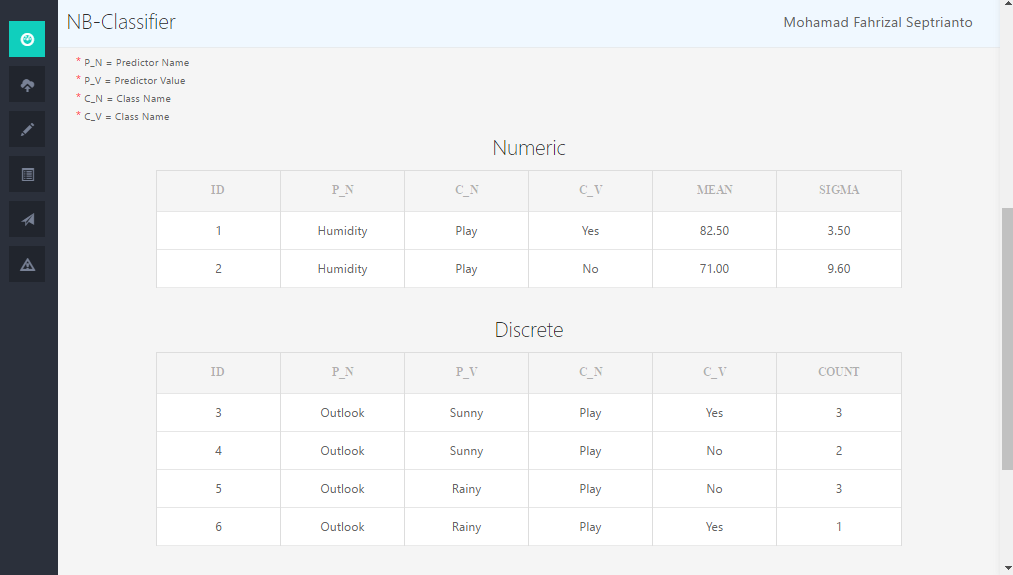
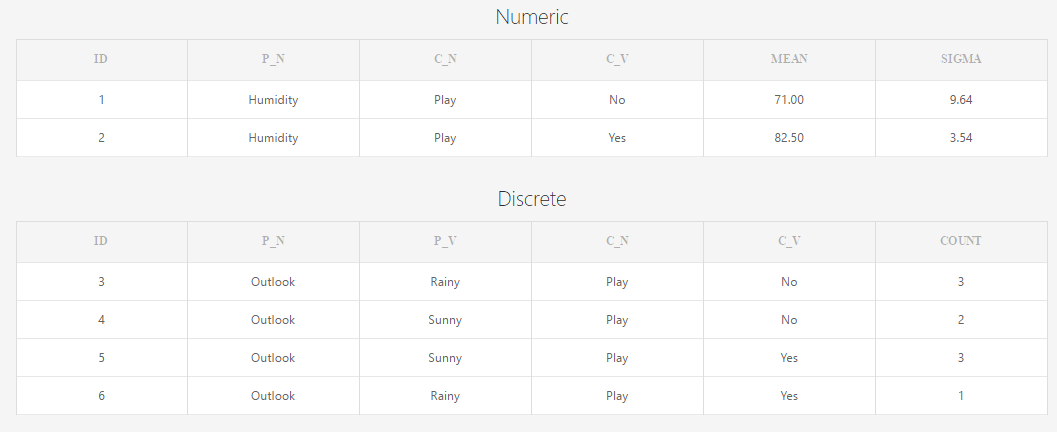
fixing all manual and program calculation (just discovered) <- fatal failure ; code fixed (sigma problem occured); working on experiments using medium with 3 dataset on pengujian model ; working on experiments using big data on pengujian performansi

diff --git a/Bab/bab2.tex b/Bab/bab2.tex
@@ -357,42 +357,81 @@ Reducer berfungsi untuk mengurangi data yang tidak diperlukan (misal : data yang
 \end{enumerate}
 
 		
---------------------------------------------------------------------------------------------------
+\section{Teorema Bayes \cite{garg2013design}}
+	
+	Teorema Bayes adalah salah satu teorema dalam statistika untuk menghitung peluang suatu kejadian dari beberapa kejadian lainnya. Teorema bayes merupakan salah satu istilah dalam teori probabilitas yang berisi mengenai perhitungan probabilitas yang memiliki syarat tertentu (\textit{certain conditional probability}). Probabilitas bersyarat (\textit{conditional probabilities}) merupakan suatu probabilitas terhadap 1 kejadian tertentu yang dipengaruhi oleh probabilitas kejadian lain. Istilah yang umum digunakan pada teorema bayes adalah probabilitas \textit{prior} dan probabilitasi \textit{posterior}. Probabilitas prior dari suatu kejadian(atau hipotesa) merupakan probablitas orisinil yang didapatkan sebelum dipengaruhi oleh probabilitas lain. Sedangkan probabilitas posterior merupakan probabilitas suatu kejadian yang sudah dipengaruhi oleh probabilitas dari kejadian lain.
+	
+	Teorema bayes dapat ditulis sebagai:
+	
+\begin{equation} \label{eq:1}
+P(A|B) = \dfrac{P(B|A)P(A)}{P(B)}
+\end{equation}
+Dimana,
+P(A) adalah probabilitas prior dari A
+P(B) adalah probabilitas prior dari B
+P(A|B) adalah probabilitas posterior dari A jika diberikan B
+P(B|A) adalah probabilitas posterior dari B jika diberikan A
 
 \section{\textit{Naive Bayes Classifier}}
 	
-	 Naive Bayes merupakan salah satu metode mesin learning yang digunakan pada teknik data mining menggunakan metode perhitungan peluang. Konsep dasar yang digunakan oleh Naive bayes adalah Teorema Bayes, yaitu teorema dalam statistika untuk menghitung peluang suatu kejadian dari beberapa kejadian lainnya. Bayes Optimal Classifier menghitung peluang dari satu kelas dari masing-masing kelompok atribut yang ada dan menentukan kelas mana yang paling optimal. Algoritma Naive Bayes melakukan klasifikasi berdasarkan pada teorema Bayes' seperti berikut : 
+	 Naive Bayes merupakan salah satu metode mesin learning yang digunakan pada teknik data mining menggunakan metode perhitungan peluang. Konsep dasar yang digunakan oleh Naive bayes adalah Teorema Bayes dengan asumsi independensi\footnote{Independensi adalah keadaan bebas dari pengaruh, tidak dikendalikan oleh pihak lain.} yang kuat. \textit{Naive Bayes Classifier} pertama kali dijelaskan pada \cite{ro1973pattern} pada tahun 1973 dan setelah itu pada \cite{langley1992analysis} pada tahun 1992. Struktur dari \textit{naive bayes classifier} pertama kali digambarkan seperti pada gambar~\ref{fig:Struktur Naive Bayesian Network} yang menunjukkan asumsi independensi yang kuat antara setiap atribut(\textit{features}) pada suatu contoh data.
+	 
+\begin{figure}[H]
+\centering
+\includegraphics[scale=0.6]{naive_bayes_classifier_structure}
+\caption[Struktur \textit{Naive Bayesian Network}]{Struktur \textit{Naive Bayesian Network}}
+\label{fig:Struktur Naive Bayesian Network}
+\end{figure}
 
+\subsection{Algoritma}
+
+	 \textit{Bayes Optimal Classifier} menghitung peluang dari satu kelas dari masing-masing kelompok atribut yang ada dan menentukan kelas mana yang paling optimal. Teori bayes memiliki asumsi bahwa probabilitas P(A|B) atau peluang kejadian A bila B terjadi tidak saling berhubungan dengan setiap kemungkinan dari nilai B yang diberikan (\textit{naive}). Hal ini disebut sebagai \textit{class conditional independence} . Sehingga memudahkan perhitungan yang dilakukan pada saat klasifikasi. Kemungkinan terjadinya kejadian A bila diberikan kejadian B dapat dihitung dengan menggunakan rumus diatas, yaitu mengalikan peluang dari kejadian B jika diberikan kejadian A dikalikan dengan peluang seluruh kejadian A dan dibagi dengan peluang dari seluruh kejadian B.
+
+	Seperti yang ditulis pada \cite{rish2001empirical}, \textit{naive bayes classifier} dapat didefinisikan sebagai berikut. Variabel - variabel dilambangkan dengan menggunakan huruf kapital seperti $X_i$, dan nilai-nya akan dilambangkan dengan huruf kecil seperti $x_i$, dan kumpulan dari variabel akan dilambangkan dengan huruf tebal seperti \textbf{$X$}.
+
+Berdasarkan persamaan pada~\ref{eq:1}, untuk dataset $X$ dan sebuah kelas $C$, didapatkan persamaan seperti $P(C=c|X=x) = \dfrac{P(X=x|C=c)P(C=c)}{P(X=x)}$. Karena, $P(X=x)$ adalah sama untuk setiap kelas, maka bisa diabaikan. Oleh karena itu, maka fungsi dikriminan dapat ditulis menjadi $f^x = P(X=x|C=c)$, dimana $P(X=x|C=c)$ disebut sebagai CPD (\textit{class-conditional probability distribution}).
+
+Untuk menghitung nilai $P(C=c|X)$ (\textit{X merupakan dataset yang digunakan sebagai predictor}) dengan mengasumsikan bahwa masing - masing atribut tidak saling bergantung dengan atribut lainnya \textit{class conditional independence}, maka didapat : 
 \begin{equation}
-P(A|B) = \dfrac{P(B|A)P(A)}{P(B)}
-\end{equation}
-
-	Teori bayes memiliki asumsi bahwa probabilitas P(A|B) atau peluang kejadian A bila B terjadi tidak saling berhubungan dengan setiap kemungkinan dari nilai B yang diberikan (\textit{naive}). Hal ini disebut sebagai \textit{class conditional independence} . Sehingga memudahkan perhitungan yang dilakukan pada saat klasifikasi. Kemungkinan terjadinya kejadian A bila diberikan kejadian B dapat dihitung dengan menggunakan rumus diatas, yaitu mengalikan peluang dari kejadian B jika diberikan kejadian A dikalikan dengan peluang seluruh kejadian A dan dibagi dengan peluang dari seluruh kejadian B.\\
-
-Berdasarkan teori Bayes, untuk dataset $d$ dan sebuah kelas $c$, didapatkan : \\
-
-\begin{equation}
-P(c|d) = \dfrac{P(d|c)P(c)}{P(d)}
-\end{equation}
-
-\begin{itemize}
-	\item $P(c|d)$ merupakan peluang dari kemunculan suatu kelas/kelompok tertentu jika diberikan suatu dataset $d$
-	\item $P(d|c)$ merupakan peluang suatu dataset tertentu jika diberikan suatu kelas $c$
-	\item $P(c)$ merupakan probabilitas dari kelas
-	\item $P(d)$ merupakan probabilitas dari dokumen/dataset
-\end{itemize}
-
-Untuk menghitung nilai $P(c|X)$ (\textit{X merupakan dataset yang digunakan sebagai predictor}) dengan mengasumsikan bahwa masing - masing atribut tidak saling bergantung dengan atribut lainnya \textit{class conditional independence}, maka didapat : 
-\begin{equation}
-	P(c|X) = P(x_1|c) P(x_2|c) ... P(x_n|c) P(c)
+	P(C=c|X) = P(x_1|c) P(x_2|c) ... P(x_n|c) P(C=c)
 \end{equation}
 
 Sebuah dataset dapat ditentukan klasifikasi-nya dengan algoritma naive bayes setelah dihitung semua kemungkinan dari nilai $P(c_k|X)$ dan untuk nilai keluaran yang paling besar akan dipilih menjadi kelas yang paling optimal dari dataset tersebut.
 
 \textit{MAP Maximum A Posteriori}
 		\begin{equation}
-			C_{MAP} = \underset{c \in C}{ argmax } P(c|d) = \underset{c \in C}{ argmax } \dfrac{P(d|c) P(c)}{P(d)} = \underset{c \in C}{ argmax } P(d|c) P(c)
+			C_{MAP} = \underset{c \in C}{ argmax } P(c|X) = \underset{c \in C}{ argmax } P(X|c) P(c)
 		\end{equation} \\
+
+%\begin{itemize}
+%	\item $P(c|d)$ merupakan peluang dari kemunculan suatu kelas/kelompok tertentu jika diberikan suatu dataset $d$
+%	\item $P(d|c)$ merupakan peluang suatu dataset tertentu jika diberikan suatu kelas $c$
+%	\item $P(c)$ merupakan probabilitas dari kelas
+%	\item $P(d)$ merupakan probabilitas dari dokumen/dataset
+%\end{itemize}
+
+\subsection{\textit{Zero-Frequency Problem} \cite{PeughMissing:2004}}
+\label{subsec:Zero-Frequency Problem}
+
+Ketika ada suatu nilai dari atribut prediktor yang tidak memiliki frekuensi kemunculan sama sekali terhadap setiap kelas (frekuensi=0), maka nilai 1 akan ditambahkan kepada setiap kombinasi dari frekuensi dari atribut terhadap tiap kelas. Pendekatan yang digunakan untuk dalam mengatasi hal ini adalah dengan menggunakan metode \textit{Laplacian Correction}. Pada metode tersebut, dikatakan bahwa kita perlu menambah nilai 1 kepada seluruh nilai pada table frekuensi untuk mengatasi masalah \textit{zero-frequency problems}. Asumsikan training database (D) itu sangat besar, dimana menambahkan frekuensi sebanyak 1 ke setiap jumlah perhitungan yang kita perlukan tidak akan memberikan pengaruh yang besar terhadap nilai kemungkinan akhir (Laplacian correction / Laplace estimator).
+
+\subsection{Prediktor Numerik \cite{garg2013design}}
+
+Ketika suatu atribut prediktor memiliki data bersifat kontinu atau numerik, terdapat 2 cara untuk mengatasi hal tersebut, diantaranya adalah:
+\begin{enumerate}
+	\item Melakukan transformasi atribut numerik dengan cara memecah - mecah nilai distribusi dari seluruh nilai dalam atribut tersebut ke dalam kategori - kategori terpisah. Cara tersebut disebut sebagai \textit{binning}. Cara ini perlu dilakukan sebelum membuat tabel frekuensi.
+	
+	\item Menggunakan disribusi dari nilai - nilai dalam atribut numerik tersebut untuk menebak frekuensi-nya. Salah satu cara yang umum digunakan adalah dengan menggunakan fungsi \textit{normal distribution} untuk nilai numerik, yang didefinisikan dengan 2 parameter: \textit{mean} dan \textit{standard deviation}.
+	\begin{equation}
+	P(X=x|C=c) = \dfrac{1}{\sqrt{2\pi\sigma}}\epsilon^{-\dfrac{x-\mu}{2\sigma^2}}
+	\end{equation}
+	Dimana,\\
+	\textit{Mean} $= \mu = \dfrac{1}{n}\sum^n_{j=1}x_j$\\
+	\textit{Standard Deviation} $= \sigma = [\dfrac{1}{n-1}\sum^n_{j=1}(x_j-n)^2]^{0.5}$\\
+	\textit{n} $=$ jumlah kemunculan atribut terhadap kelas
+	
+	
+\end{enumerate}	
 	
 \section{Framework Yang Digunakan Dalam Membangun Perangkat Lunak}
 
@@ -407,7 +446,7 @@ Sebuah dataset dapat ditentukan klasifikasi-nya dengan algoritma naive bayes set
 \end{enumerate}
 Spring menyediakan model pemrograman terbuka yang komprehensif, kohesif, mudah dipahami serta memiliki \textit{library} yang lengkap untuk melakukan integrasi ke \textit{service - service} lain seperti \textit{Hadoop-client Library}, \textit{Mysql-connector Library}, dsb. Inti dari framework ini lebih kepada untuk membangun aplikasi web, mengatur manajemen transaksi, akses data, messaging, pengujian dsb. Kita bisa mengembangkan aplikasi web berbasis MVC dan \textit{Web-Service} framework \textit{REST-ful}\footnote{REST merupakan \textit{standard} dalam arsitektur web yang menggunakan Protocol HTTP untuk pertukaran data.  Konsep REST menekankan bahwa komunikasi yang terjadi antara \textit{client} dan \textit{server} hanya sebatas melakukan \textit{request} dan memberikan \textit{response} saja.} (\textit{Representational State Transfer}).
 
-\textit{Design pattern} yang digunakan pada perangkat lunak yang dibuat akan menggunakan konsep MVC (\textit{model view controler}). Spring memiliki fitur khusus untuk membuat web berbasiskan \textit{design pattern} MVC. Berikut merupakan ilustrasi\footnote{Gambar diambil dari \url{https://docs.spring.io/spring/docs/current/spring-framework-reference/html/images/mvc.png.pagespeed.ce.tmIzOTr1gg.png}} dari \textit{request workflow} pada \textit{Spring Web} MVC.
+\textit{Design pattern} yang digunakan pada perangkat lunak yang dibuat akan menggunakan konsep MVC (\textit{model view controler}). Spring memiliki fitur khusus untuk membuat web berbasiskan \textit{design pattern} MVC. Berikut merupakan ilustrasi(diambil dari \url{https://docs.spring.io/spring/docs/current/spring-framework-reference/html/images/mvc.png.pagespeed.ce.tmIzOTr1gg.png}) dari \textit{request workflow} pada \textit{Spring Web} MVC.
 \begin{figure}[h]
 	\centering
 	\includegraphics[scale=0.5]{GambarIO/mvc_springdocs}
@@ -429,7 +468,7 @@ Spring menyediakan model pemrograman terbuka yang komprehensif, kohesif, mudah d
 \subsection{\textit{Maven} \cite{MengenalMaven2015EGunawan}}
 Apache Maven adalah software build tools / project management yang dibangun dibawah \textit{Apache Software Foundation} yang digunakan untuk melakukan proses building project. Jadi, ketika project akan dibuild menggunakan Maven, project tersebut bisa kita buka menggunakan IDE lain.
 
-Selain itu, keuntungan menggunakan maven adalah mendukung dependency management. Artinya, ketika kita membutuhkan suatu library ke dalam project, kita tidak perlu mendownloadnya manual, kemudian dimasukkan ke dalam project. Kita tinggal memasukkan  ependency-nya, dan maven akan menanganinya.  Dengan begini, ukuran project menjadi lebih kecil karena tidak memasukkan library ke dalam project.
+Selain itu, keuntungan menggunakan maven adalah mendukung dependency management. Artinya, ketika kita membutuhkan suatu library ke dalam project, kita tidak perlu men-\textit{download}-nya secara manual yang kemudian dimasukkan ke dalam project. Tetapi, tinggal memasukkan \textit{dependency} untuk library yang dibutuhkan tersebut dan maven akan menangani proses \textit{download} library dan kompilasi project menggunakan \textit{library} tersebut.  Dengan begitu, ukuran project menjadi lebih kecil karena tidak memasukkan library ke dalam project. \textit{Maven} menyimpan seluruh library yang pernah kita gunakan pada direktori \texttt{.m2} milik user.
 
 Untuk mendownload Apache Maven bisa langsung ke websitenya di \url{http://maven.apache.org/}. Versi terbaru dari Apache Maven adalah 3.5.0.
 

diff --git a/Bab/bab5.tex b/Bab/bab5.tex
@@ -188,8 +188,8 @@ Misal kita memiliki dataset yang menunjukan seseorang akan bermain tenis atau ti
 			\end{tabular}
 		\end{table}
 		
-		Pada table frekuensi untuk atribut Outlook, dapat dilihat bahwa $P(X=Rainy|C=Yes) = 0$. Naive bayes classifier tidak dapat mengatasi frekuensi yang nilainya 0. Karena dapat menyebabkan seluruh perhitungan menjadi 0(karena berapapun bilangannya, jika dikalikan dengan 0 akan selalu menghasilkan nilai 0), sehingga menjadi tidak relevan. Pendekatan yang perlu digunakan untuk mengatasi hal tersebut adalah dengan menggunakan metode Laplacian Correction (->Pustaka.Bib). Pada metode tersebut, dikatakan bahwa kita perlu menambah nilai 1 kepada seluruh nilai pada table frekuensi untuk mengatasi masalah \textit{zero-frequency problems}. Asumsikan training database (D) itu sangat besar, dimana menambahkan frekuensi sebanyak 1 ke setiap jumlah perhitungan yang kita perlukan tidak akan memberikan pengaruh yang besar terhadap nilai kemungkinan akhir (Laplacian correction / Laplace estimator) \cite{PeughMissing:2004}. Perubahan nilai atribut dapat dilihat pada table 3. \\
-		
+		Pada table frekuensi untuk atribut Outlook, dapat dilihat bahwa $P(X=Rainy|C=Yes) = 0$. Naive bayes classifier tidak dapat mengatasi frekuensi yang nilainya 0. Karena dapat menyebabkan seluruh perhitungan menjadi 0(karena berapapun bilangannya, jika dikalikan dengan 0 akan selalu menghasilkan nilai 0), sehingga menjadi tidak relevan. Berdasarkan pada~\ref{subsec:Zero-Frequency Problem}, perubahan nilai atribut dapat dilihat pada table 3. \\ 
+
 		\begin{table}[ht]
 			\centering
 			\caption{Table frekuensi atribut Outlook}
@@ -278,8 +278,6 @@ Misal kita memiliki dataset yang menunjukan seseorang akan bermain tenis atau ti
 			f(x|play=no) = \dfrac{1}{\sqrt{2\pi(9.6)}}e^{-\dfrac{(x-71)^2}{2(9.6)^2}} 
 		\end{equation}
 		
-		\textit{Cara ini dapat diberlakukan juga pada atribut yang bertipe kontinu.}
-		
 		Setelah semua model dari naive bayes classifier telah jadi, maka klasifikasi sudah dapat dilakukan dengan model diatas.
 
 \subsubsection{Klasifikasi Menggunakan Model NBC}
@@ -306,7 +304,7 @@ $( C_{MAP} = \underset{c \in C}{ argmax } P(c|d) = \underset{c \in C}{ argmax } 
 		\begin{equation}
 			P(Humidity=50|Yes) 
 			= \dfrac{1}{\sqrt{2\pi(3.5)}}e^{-\dfrac{(\textbf{50}-82.5)^2}{2(3.5)^2}}
-			= 4.031
+			= 4.031*10^{-20}
 		\end{equation}
 	
 	\paragraph{Untuk dataset X dengan $P=No$:}
@@ -326,22 +324,22 @@ $( C_{MAP} = \underset{c \in C}{ argmax } P(c|d) = \underset{c \in C}{ argmax } 
 	Untuk kelas $Play=Yes$ \\
 	$P(Play=Yes|X) \\
 	= P(Outlook=Sunny|Play=Yes)*P(Humidity=50|Play=Yes)*P(Yes) \\
-	= 0.75 * 4.031 * 4/9 \\
-	= 1.343$ \\ \\
+	= 0.75 * 4.031*10^{-20} * 4/9 \\
+	= 1.343*10^{-20}$ \\ \\
 	Untuk kelas $Play=No$ \\
 	$P(Play=No|X) \\
 	= P(Outlook=Sunny|Play=No)*P(Humidity=50|Play=No)*P(No) \\
 	= 0.4 * 0.011 * 5/9 \\
 	= 0.002$ \\ \\
 	Setelah itu, lakukan normalisasi terhadap nilai - nilai berikut: \\
-	$P(Play=Yes|X) = 1.343 / (1.343+0.002) \\
-	= 0.998 (99.8\%)$ \\
-	$P(Play=No|X) = 0.002 / (1.343+0.002) \\
-	= 0.002 (0.2\%)$ \\
+	$P(Play=Yes|X) = 1.343*10^{-20} / (1.343*10^{-20} + 0.002) \\
+	= 6.715*10^{-18}$ \\
+	$P(Play=No|X) = 0.002 / ((1.343*10^{-20}) + 0.002) \\
+	= 1 (100\%)$ \\
 	
-	Karena, $P(Play=Yes|X) > P(Play=No|X)$, maka hasil klasifikasi untuk \textit{dataset X} ialah kelas $Play=Yes$.
+	Karena, $P(Play=Yes|X) < P(Play=No|X)$, maka hasil klasifikasi untuk \textit{dataset X} ialah kelas $Play=No$.
 	
-	\paragraph{Untuk dataset Y dengan $P=Yes$:}
+	\paragraph{Untuk dataset Y dengan $P=Yes$}
 	Menghitung peluang untuk atribut $Outlook=Sunny$ dengan $P=Yes$
 	\begin{equation}
 			P(Outlook=Sunny|Yes) = 3/4 
@@ -433,8 +431,8 @@ Hasil pembuatan model klasifikasi NBC yang dilakukan oleh program dapat dilihat 
 \begin{lstlisting}
 Play,No,3.0|CLASS	
 Play,Yes,2.0|CLASS	
-Humidity,Play,No	;71.0|7.874007874011811|NUMERIC
-Humidity,Play,Yes	;82.5|2.5|NUMERIC
+Humidity,Play,No	;71.0|9.643650760992955|NUMERIC
+Humidity,Play,Yes	;82.5|3.5355339059327378|NUMERIC
 Outlook,Rainy,Play,No,2.0|DISCRETE	
 Outlook,Sunny,Play,No,1.0|DISCRETE	
 Outlook,Sunny,Play,Yes,2.0|DISCRETE
@@ -461,11 +459,13 @@ Pada bagian ini, akan dilakukan 2 kali pengujian klasifikasi, yaitu (1) dengan m
 	|     | no  | yes |
 	-------------------
 	| no  | 0   | 0   |
-	| yes | 0   | 2   |
+	| yes | 1   | 1   |
 	-------------------
 	####
 	\end{lstlisting}
-	Dapat dilihat bahwa, hasil klasifikasi menggunakan program berbasis \textit{MapReduce} pada modul \textit{testing} memiliki hasil yang sama dengan hasil klasifikasi kelas \texttt{Play=Yes}.
+	Hasil pada program berbasis \textit{MapReduce} dapat dilihat pada hasil matrix \textit{confusion} diatas. Pada matrix \textit{confusion} 2 dimensi berikut, dimensi pertama (mendatar) akan menyatakan nilai sebenarnya(\textit{actual}) dari data asli-nya (di-input oleh user), dan dimensi kedua (menurun) akan menyatakan nilai hasil dari prediksi menggunakan model NBC yang sudah dibuat.
+	
+	Pada matrix tersebut terlihat bahwa terdapat 1 record yang menghasilkan kelas \texttt{Play=Yes} dan 1 record yang menghasilkan kelas \texttt{Play=No}.
 	
 	\item{Klasifikasi dengan perangkat lunak berbasis \textit{non-MapReduce}}\\
 	Model pada NBC akan di-\textit{import} ke dalam program yang dibuat dengan melakukan pembaharuan model pada antarmuka \textit{Renew Model Manager}. Program akan melakukan pembacaan terhadap model NBC dan mendeteksi dari model NBC yang diperoleh sebelumnya terdapat \textit{zero-frequency problem} dan mengatasinya dengan menggunakan metode \textit{laplacian correction}, dan hasilnya adalah seperti berikut:
@@ -477,7 +477,7 @@ Pada bagian ini, akan dilakukan 2 kali pengujian klasifikasi, yaitu (1) dengan m
 	\end{figure}
 Dapat dilihat pada Gambar~\ref{fig:Import Model NBC - Pengujian} bahwa pada model yang dihasilkan sebelumnya kita tidak memiliki frekuensi kemunculan untuk prediktor \texttt{outlook=rainy} dengan kelas \texttt{play=yes}, tetapi setelah dilakukan import model ke dalam program, program telah menangani \textit{zero-frequency problem} dengan baik, dengan menambahkan frekuensi sebanyak 1 untuk tiap model.\\
 
-Untuk data input klasifikasi \texttt{Humidity=50} dan \texttt{Outlook=Sunny}, diperoleh hasil klasifikasi yang sama dengan perhitungan manual, yaitu kelas \texttt{Play=Yes}, dengan presentase dominasi yang berbeda sebesar \texttt{100\%}.
+Untuk data input klasifikasi \texttt{Humidity=50} dan \texttt{Outlook=Sunny}, diperoleh hasil klasifikasi yang sama dengan perhitungan manual, yaitu kelas \texttt{Play=No}, dengan presentase dominasi yang juga sama, yaitu sebesar \texttt{100\%}.
 \begin{figure}[H]
 	\centering
 	\includegraphics[scale=0.5]{Pengujian/result_classify_1}
@@ -485,7 +485,7 @@ Untuk data input klasifikasi \texttt{Humidity=50} dan \texttt{Outlook=Sunny}, di
 	\label{fig:Hasil Klasifikasi Dataset-1}
 \end{figure}
 
-Untuk data input klasifikasi \texttt{Humidity=90} dan \texttt{Outlook=Sunny}, diperoleh hasil klasifikasi yang sama dengan perhitungan manual, yaitu kelas \texttt{Play=Yes}, dengan presentase dominasi yang berbeda sebesar \texttt{63.94\%}.
+Untuk data input klasifikasi \texttt{Humidity=90} dan \texttt{Outlook=Sunny}, diperoleh hasil klasifikasi yang sama dengan perhitungan manual, yaitu kelas \texttt{Play=Yes}, dengan presentase dominasi yang berbeda sebesar \texttt{64.67\%}.
 \begin{figure}[H]
 	\centering
 	\includegraphics[scale=0.5]{Pengujian/result_classify_2}
@@ -497,7 +497,7 @@ Untuk data input klasifikasi \texttt{Humidity=90} dan \texttt{Outlook=Sunny}, di
 
 \subsection{Kesimpulan Pengujian Kebenaran}
 
-Pada hasil yang pengujian yang telah dilakukan, dapat dibuktikan bahwa hasil perhitungan dengan menggunakan program dan manual memiliki hasil yang sama. Hanya saja angka presentase dominasi hasil yang dimiliki oleh program sedikit berbeda dengan angka presentase dominasi pada perhitungan manual. Untuk dataset pertama, pada perhitungan manual diperoleh hasil kelas \texttt{Play=Yes} dengan tingkat presentase dominasi sebesar \texttt{99.8\%}, sedangkan jika menggunakan program tingkat presentase dominasi-nya sebesar \texttt{100\%}. Untuk dataset pertama, pada perhitungan manual diperoleh hasil kelas \texttt{Play=Yes} dengan tingkat presentase dominasi sebesar \texttt{64\%}, sedangkan jika menggunakan program tingkat presentase dominasi-nya sebesar \texttt{63.94\%}. Perbedaan yang sangat kecil, yang berkisar diantara \texttt{0.02\% - 0.06\%} diperkirakan timbul karena pembulatan nilai desimal yang berbeda.
+Pada hasil yang pengujian yang telah dilakukan, dapat dibuktikan bahwa hasil perhitungan dengan menggunakan program dan manual memiliki hasil yang sama. Hanya saja angka presentase dominasi hasil yang dimiliki oleh program sedikit berbeda dengan angka presentase dominasi pada perhitungan manual. Untuk dataset pertama, pada perhitungan manual dan menggunakan program diperoleh hasil kelas yang sama yaitu \texttt{Play=Yes} dengan tingkat presentase dominasi juga sama sebesar \texttt{100\%}. Untuk dataset pertama, pada perhitungan manual diperoleh hasil kelas \texttt{Play=Yes} dengan tingkat presentase dominasi sebesar \texttt{64\%}, sedangkan jika menggunakan program tingkat presentase dominasi-nya sebesar \texttt{64.67\%}. Perbedaan yang sangat kecil, yang berkisar diantara \texttt{0.6\%} atau \texttt{0.006} diperkirakan timbul karena pembulatan nilai desimal yang berbeda.
 
 \section{Eksperimen}
 

diff --git a/data.tex b/data.tex
@@ -140,7 +140,7 @@
 % Catatan: Jika ingin menambahkan bab ke-10 dan seterusnya, harus dilakukan 
 % secara manual
 %=============================================================================
-\bab{5}
+\bab{ }
 %=============================================================================
 
 %_____________________________________________________________________________
